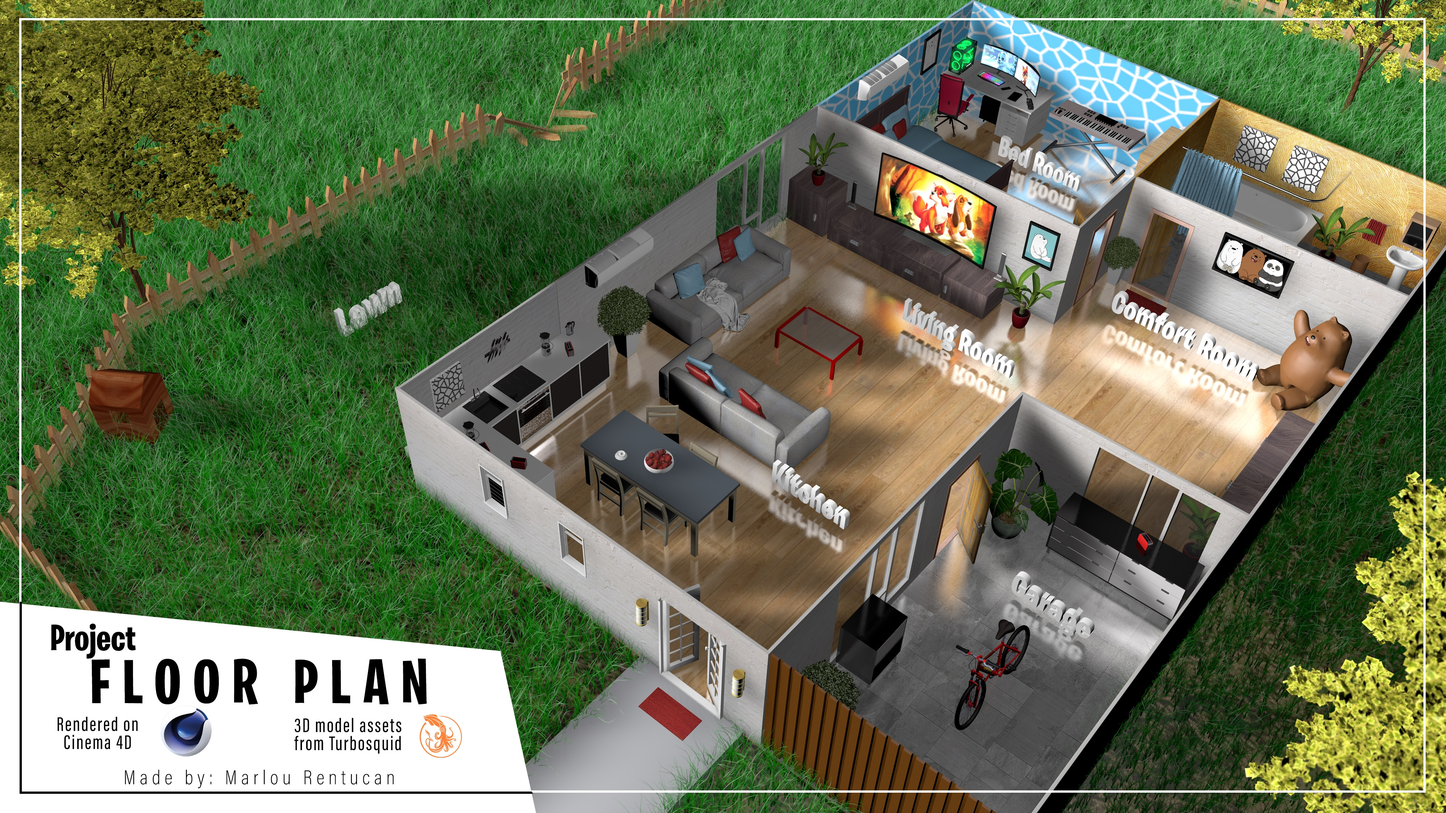
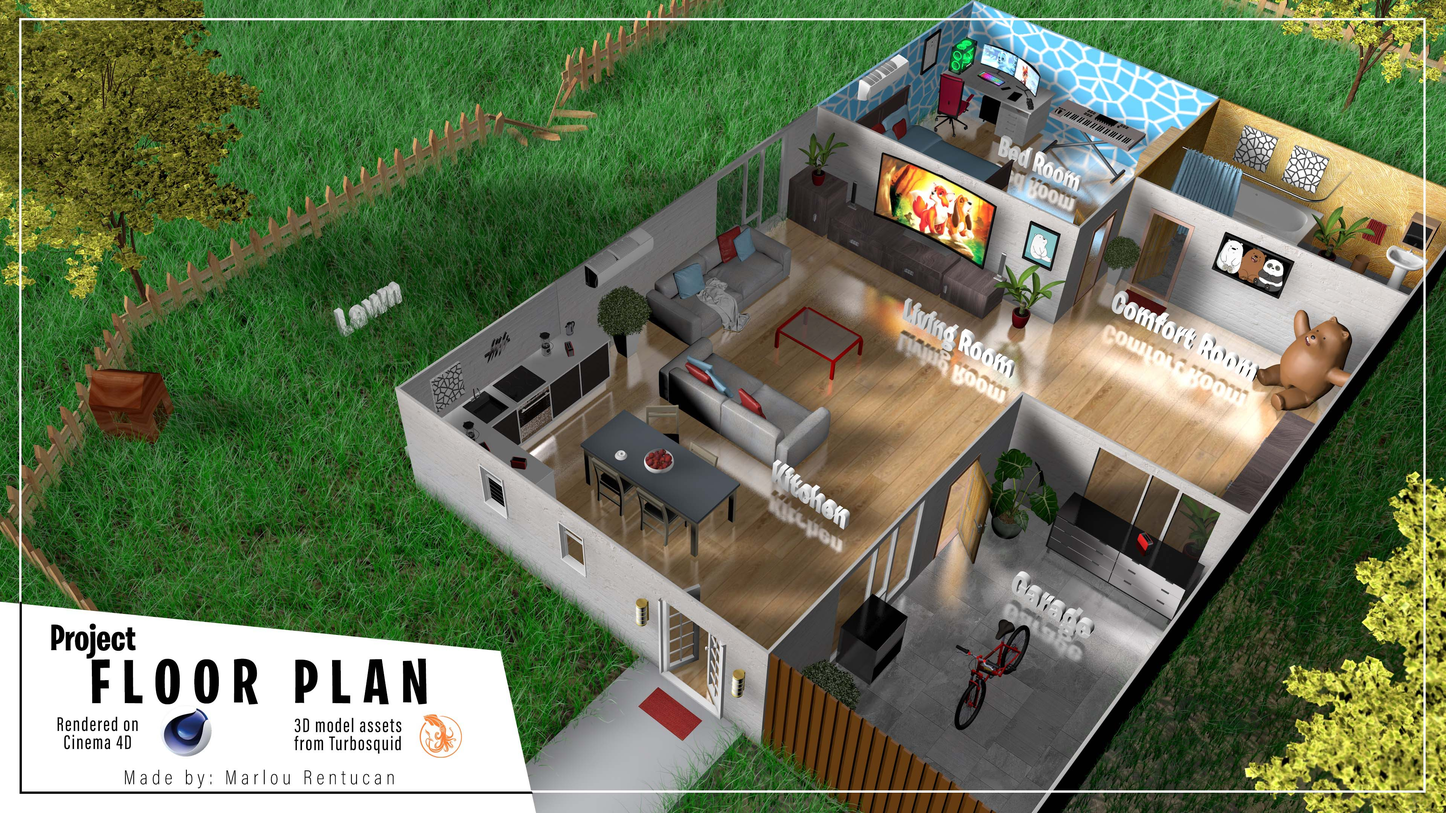
optimized media
for faster loading of website

diff --git a/index.html b/index.html
@@ -150,7 +150,7 @@ online CDN's: (ezgif[cat in the end] https://ezgif.com/images/loadcat.gif, font 
 				<center>
 					<div class="autoplay">
 
-						<div>	<img src="images/8.png" alt="" target="_blank" width="270px" height="400px"/></div>
+						<div>	<img src="images/81.jpg" alt="" target="_blank" width="270px" height="400px"/></div>
 
 						<div>	 <img class="image" src="images/55.jpg" alt="" target="_blank" height="260px" /></div>
 
@@ -225,7 +225,7 @@ online CDN's: (ezgif[cat in the end] https://ezgif.com/images/loadcat.gif, font 
 						</div> <!-- cd-timeline-content -->
 
 						<div class="cd-timeline-content2">
-							<a ><img src="images/12.png" alt="" style="width:325px;height:180px;position:left;"/></a>
+							<a ><img src="images/12.jpg" alt="" style="width:325px;height:180px;position:left;"/></a>
 						</div> <!-- cd-timeline-content -->
 
 

diff --git a/assets/css/main.css b/assets/css/main.css
@@ -3624,7 +3624,7 @@ Main components
 			background-color: #1E2832;
 			color: rgba(255, 255, 255, 0.75);
 			background-attachment: fixed;
-			background-image: url("images/overlay.png"), url("../../images/76.png");
+			background-image: url("images/overlay.png"), url("../../images/76.jpg");
 			background-size: cover;
 			background-position: center;
 		}
